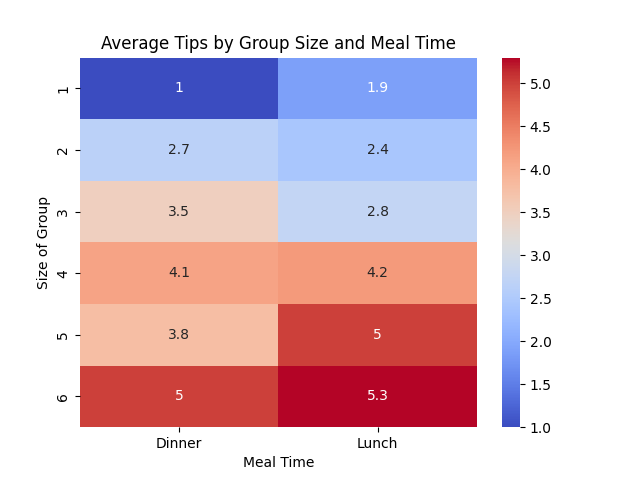
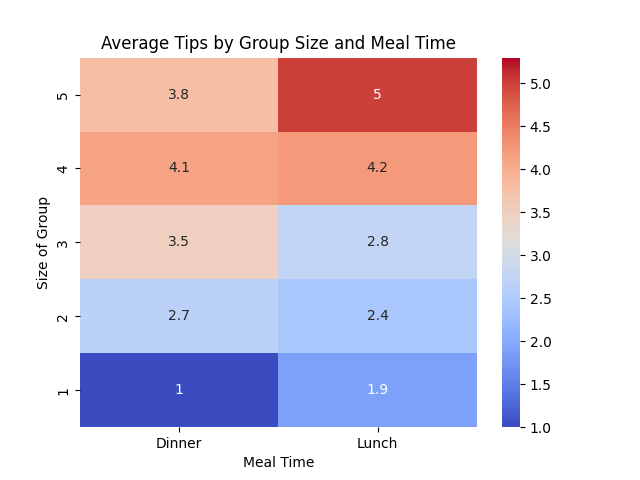
Fix ylim function to run before savefig and set greater limit

diff --git a/main.py b/main.py
@@ -11,11 +11,11 @@ tips_pivoted = tips.pivot_table(values="tip", index=["size"], columns=["time"])
 #creat a heat map using the dataframe with annotations and a coolwarm color palette
 fig = sns.heatmap(tips_pivoted, annot=True, cmap="coolwarm")
 
+fig.set_ylim(0,5)
+
 plt.xlabel("Meal Time")
 plt.ylabel("Size of Group")
 
 plt.title("Average Tips by Group Size and Meal Time")
 
 plt.savefig("tips-by-group-and-time.png")
-
-fig.set_ylim(0,6)
